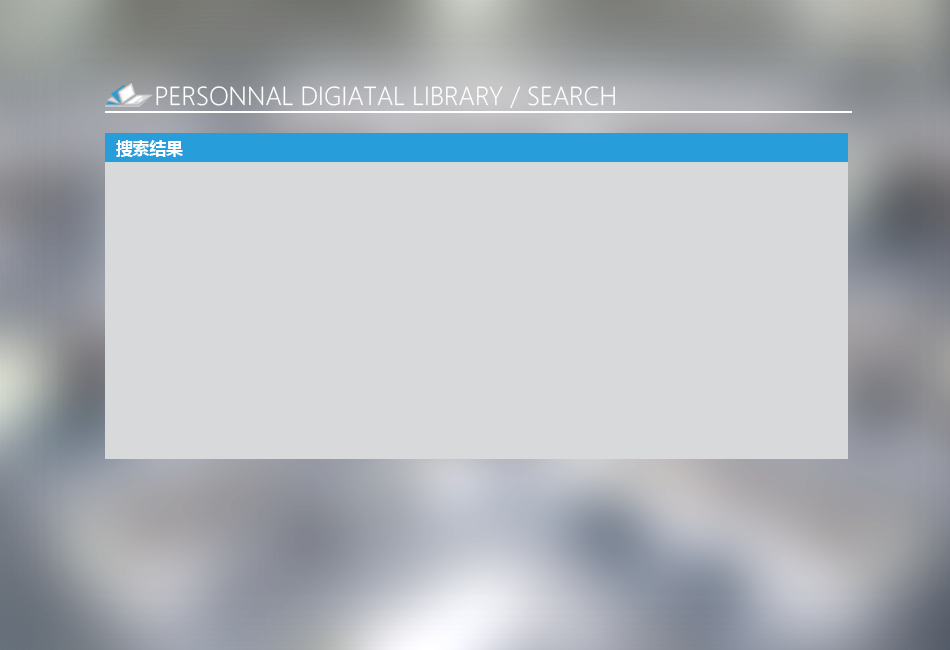
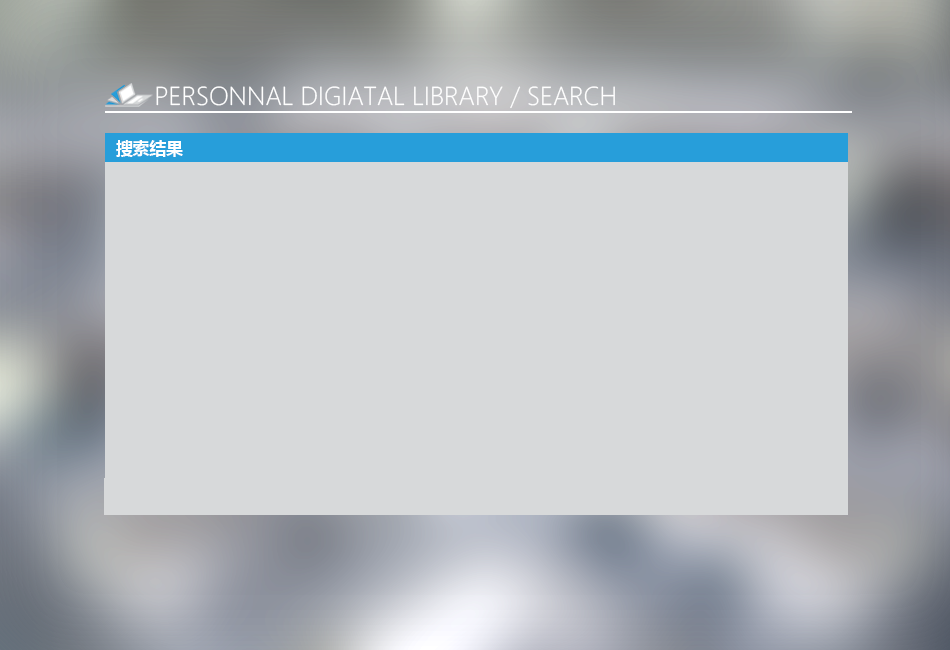
完善项目，新的布局，顺便debug，待更新

Changed region(s): [[0.0916, 0.7077, 0.9158, 0.8]]

diff --git a/src/gui/SetUp.java b/src/gui/SetUp.java
@@ -70,7 +70,7 @@ public class SetUp extends BasicPanel {
 
         styleJLabel = new JLabel("风格设置", JLabel.CENTER);
         styleJLabel.setFont(GLOBAL_FONT);
-        styleJLabel.setBounds(185, 180, 100, 50);
+        styleJLabel.setBounds(185, 230, 100, 50);
         this.add(styleJLabel);
 
         stylebButtonGroup = new ButtonGroup();
@@ -99,7 +99,7 @@ public class SetUp extends BasicPanel {
                 styleButtons[i] = new JRadioButton("Mac风格");
                 styleButtons[i].addActionListener(new RadioButtonListener(i, "com.sun.java.swing.plaf.mac.MacLookAndFeel", this));
             }
-            styleButtons[i].setBounds(300 + 130 * (i % 4), 180 + (i / 4) * 40, 130, 50);
+            styleButtons[i].setBounds(300 + 130 * (i % 4), 230 + (i / 4) * 40, 130, 50);
             styleButtons[i].setOpaque(false);
             styleButtons[i].setFont(GLOBAL_FONT);
             this.add(styleButtons[i]);
@@ -108,7 +108,7 @@ public class SetUp extends BasicPanel {
         //默认系统风格
         styleButtons[styleButtons.length - 1] = new JRadioButton("系统风格");
         styleButtons[styleButtons.length - 1].setBounds(300 + 130 * ((styleButtons.length - 1) % 4),
-                180 + (styleButtons.length - 1) / 4 * 40, 130, 50);
+                230 + (styleButtons.length - 1) / 4 * 40, 130, 50);
         styleButtons[styleButtons.length - 1].setOpaque(false);
         styleButtons[styleButtons.length - 1].setFont(GLOBAL_FONT);
         styleButtons[styleButtons.length - 1].addActionListener(new RadioButtonListener(styleButtons.length - 1,
@@ -119,15 +119,15 @@ public class SetUp extends BasicPanel {
 
         fontJLabel = new JLabel("字体设置", JLabel.CENTER);
         fontJLabel.setFont(GLOBAL_FONT);
-        fontJLabel.setBounds(185, 320, 100, 50);
+        fontJLabel.setBounds(185, 350, 100, 50);
         this.add(fontJLabel);
 
         globalButton = new JButton("普通字体设置");
         shelfButton = new JButton("书架字体设置");
         globalButton.setFont(GLOBAL_FONT);
         shelfButton.setFont(GLOBAL_FONT);
-        globalButton.setBounds(390, 330, 150, 30);
-        shelfButton.setBounds(560, 330, 150, 30);
+        globalButton.setBounds(390, 380, 150, 30);
+        shelfButton.setBounds(560, 380, 150, 30);
         globalButton.addActionListener((ActionEvent e) -> {
             z = new ZFontChooser("global", index);
             try {
@@ -149,7 +149,7 @@ public class SetUp extends BasicPanel {
 
         themeJLabel = new JLabel("主题设置", JLabel.CENTER);
         themeJLabel.setFont(styleJLabel.getFont());
-        themeJLabel.setBounds(185, 260, 100, 50);
+        themeJLabel.setBounds(185, 310, 100, 50);
         this.add(themeJLabel);
 
         themeButtonGroup = new ButtonGroup();
@@ -160,7 +160,7 @@ public class SetUp extends BasicPanel {
         themeButtons[(int) setMap.get("style").get("theme")].setSelected(true);
         //主题系列RadioButton
         for (int i = 0; i < themeButtons.length; i++) {
-            themeButtons[i].setBounds(300 + 130 * (i % 4), 260 + (i / 4) * 40, 130, 50);
+            themeButtons[i].setBounds(300 + 130 * (i % 4), 310 + (i / 4) * 40, 130, 50);
             themeButtons[i].setFont(GLOBAL_FONT);
             themeButtons[i].setOpaque(false);
             themeButtons[i].addActionListener(new ThemeListener(i, index));
@@ -169,11 +169,11 @@ public class SetUp extends BasicPanel {
         }
 
         startJLabel = new JLabel("启动设置", JLabel.CENTER);
-        startJLabel.setBounds(185, 380, 100, 30);
+        startJLabel.setBounds(185, 430, 100, 30);
         this.add(startJLabel);
         //让flag.pdl置为0
         reseButton = new JButton("重置初始搜索");
-        reseButton.setBounds(305, 380, 150, 30);
+        reseButton.setBounds(305, 430, 150, 30);
         reseButton.addActionListener((ActionEvent) -> {
             int answer = JOptionPane.showConfirmDialog(this, "重置初始搜索将会在下次启动时重新搜索您的计算机(如果您更改了大量文件，\n可能需要此功能)，这可能为花费较长时间，您确定要这么做吗？",
                     "警告", JOptionPane.YES_NO_OPTION);
@@ -187,7 +187,7 @@ public class SetUp extends BasicPanel {
         });
         this.add(reseButton);
         rangeButton = new JButton("搜索范围更改");
-        rangeButton.setBounds(475, 380, 150, 30);
+        rangeButton.setBounds(475, 430, 150, 30);
         rangeButton.addActionListener((ActionEvent) -> {
             //如何不让选C盘相关？
             File f;
@@ -213,7 +213,7 @@ public class SetUp extends BasicPanel {
         this.add(rangeButton);
         //重置至all
         resetRangeButton = new JButton("重置搜索范围");
-        resetRangeButton.setBounds(645, 380, 150, 30);
+        resetRangeButton.setBounds(645, 430, 150, 30);
         resetRangeButton.addActionListener((ActionEvent e) -> {
             int answer = JOptionPane.showConfirmDialog(this, "如此将重置初始搜索为全盘(除系统盘)搜索，\n确定要这样吗？", "提示", JOptionPane.OK_CANCEL_OPTION);
             if (answer == 0) {

diff --git a/src/gui/Search.java b/src/gui/Search.java
@@ -98,29 +98,29 @@ public class Search extends BasicPanel {
         entry3.setVisible(false);
         entry4.setVisible(false);
 
-        point1.setBounds(160, 173, 20, 20);
+        point1.setBounds(160, 223, 20, 20);
         point1.setOpaque(true);
         point1.setBackground(new Color(39, 158, 218));
-        point2.setBounds(160, 223, 20, 20);
+        point2.setBounds(160, 273, 20, 20);
         point2.setOpaque(true);
         point2.setBackground(new Color(39, 158, 218));
-        point3.setBounds(160, 273, 20, 20);
+        point3.setBounds(160, 323, 20, 20);
         point3.setOpaque(true);
         point3.setBackground(new Color(39, 158, 218));
-        point4.setBounds(160, 323, 20, 20);
+        point4.setBounds(160, 373, 20, 20);
         point4.setOpaque(true);
         point4.setBackground(new Color(39, 158, 218));
 
         bt1.setBounds(240, 393, 50, 22);
-        bt2.setBounds(340, 393, 50, 22);
-        option1.setBounds(220, 173, 200, 20);
-        option2.setBounds(220, 223, 200, 20);
-        option3.setBounds(220, 273, 200, 20);
-        option4.setBounds(220, 323, 200, 20);
-        entry1.setBounds(350, 173, 200, 20);
-        entry2.setBounds(350, 223, 200, 20);
-        entry3.setBounds(350, 273, 200, 20);
-        entry4.setBounds(350, 323, 200, 20);
+        bt2.setBounds(340, 433, 50, 22);
+        option1.setBounds(220, 223, 200, 20);
+        option2.setBounds(220, 273, 200, 20);
+        option3.setBounds(220, 323, 200, 20);
+        option4.setBounds(220, 373, 200, 20);
+        entry1.setBounds(350, 223, 200, 20);
+        entry2.setBounds(350, 273, 200, 20);
+        entry3.setBounds(350, 323, 200, 20);
+        entry4.setBounds(350, 373, 200, 20);
         this.addReturnListener();
     }
 
@@ -206,15 +206,15 @@ public class Search extends BasicPanel {
                 ArrayList<String> result = new ArrayList<>();
                 ResultPanel RESULT = null;
                 for (JTextField entry : new JTextField[]{entry1, entry2, entry3, entry4}) {
-                    if (entry.isVisible()) {
+                    if (entry.isVisible() && !"".equals(entry.getText())) {
                         if (entry == entry4) {
-                            SearchContent Re4 = new SearchContent(entry4.getText());
+                            SearchContent Re4 = new SearchContent(entry.getText());
                             result.addAll(Re4.result);
                         }
                         if (entry == entry3) {
-                            result.addAll(NewSearch.SearchTitle(entry3.getText()));
+                            result.addAll(NewSearch.SearchTitle(entry.getText()));
                         }
-                        RESULT = new ResultPanel(entry.getText(), result);
+                        RESULT = new ResultPanel(entry.getText(), result, "search");
                         break;
                     }
                 }
@@ -226,11 +226,16 @@ public class Search extends BasicPanel {
                         img.paintIcon(this, g, 0, 0);
                     }
                 };
+                //z到此一游
                 temp.returnButton.removeActionListener(temp.actionListener);
                 temp.returnButton.addActionListener((ActionListener) -> {
                     MainFrame.cl.show(MainFrame.changeJPanel, "search");
                 });
-                RESULT.setBounds(130, 165, 600, 275);
+                for (Component c : RESULT.getComponents()) {
+                    c.setForeground(SetUp.FORE_COLOR);
+                }
+                RESULT.setBounds(130, 165, 700, 325);
+                //z游览完毕
                 RESULT.setVisible(true);
                 temp.add(RESULT);
                 temp.setLayout(null);

diff --git a/src/gui/ResultPanel.java b/src/gui/ResultPanel.java
@@ -5,22 +5,20 @@ import javax.swing.*;
 import java.awt.event.*;
 import java.io.IOException;
 import java.util.ArrayList;
-import java.util.EventObject;
 import java.util.HashMap;
 import java.util.logging.Level;
 import java.util.logging.Logger;
-import gui.SetUp;
 
 public class ResultPanel extends JPanel {
 
     private HashMap<Integer, String> JLHashMap;
-    private JLabel[] labelListJLabels = new JLabel[5000];
+    JLabel[] labelListJLabels = new JLabel[5000];
     private JLabel labelHintJLabel = new JLabel();
     private JLabel[] labelorderJLabels = new JLabel[20];
     private JLabel next, front, tail, foreward;
     private ArrayList<JLabel> Page = new ArrayList<JLabel>();
     private int nowPage = 0;
-    private int pagelength = 8, length = 8;
+    private int pagelength = 10, length = 10;
     private int countpage = 0;
     private static int startwidth = 0, startheight = -30, width = 400, height = 30;
     private int now = 0;
@@ -37,7 +35,17 @@ public class ResultPanel extends JPanel {
         return this.name;
     }
 
-    public ResultPanel(String str, ArrayList<String> result) {
+    /**
+     * 元神请看这里！
+     *
+     * @param str
+     * @param result
+     * @param where 为了加长搜索结果的显示，所以加了个这个，where为"shelf"或者"search"
+     */
+    public ResultPanel(String str, ArrayList<String> result, String where) {
+        if (where.equals("search")) {
+            width += 200;
+        }
         JLabel temLabel;
         this.name = str;
         this.setBackground(SetUp.BACK_COLOR);
@@ -125,13 +133,13 @@ public class ResultPanel extends JPanel {
         nowPage = x;
         len = size >= (nowPage + length) ? length : size;
         for (i = 0; i < len; i++) {
-            Page.get(x + i).setBounds(startwidth + height * 3 + (height * i), 8 * height, height, height);
+            Page.get(x + i).setBounds(startwidth + height * 3 + (height * i), 10 * height, height, height);
             Page.get(x + i).setVisible(true);
         }
-        next.setBounds(startwidth + height * 3 + (height * len), 8 * height, height, height);
-        tail.setBounds(startwidth + height * 4 + (height * len), 8 * height, height, height);
-        front.setBounds(startwidth + height, 8 * height, height, height);
-        foreward.setBounds(startwidth + height * 2, 8 * height, height, height);
+        next.setBounds(startwidth + height * 3 + (height * len), 10 * height, height, height);
+        tail.setBounds(startwidth + height * 4 + (height * len), 10 * height, height, height);
+        front.setBounds(startwidth + height, 10 * height, height, height);
+        foreward.setBounds(startwidth + height * 2, 10 * height, height, height);
     }
 
     public void addMove() {

diff --git a/src/gui/ShelfPanel.java b/src/gui/ShelfPanel.java
@@ -69,6 +69,7 @@ public class ShelfPanel extends BasicPanel {
             }
             subjectLabel[i] = new JLabel(subjectShow[a + i].getName());
             subjectLabel[i].setFont(SetUp.GLOBAL_FONT);
+            subjectLabel[i].setForeground(Color.WHITE);  //可能要改
             subjectLabel[i].setBounds(270 + i * 58, 133, 55, 28);
             subjectLabel[i].addMouseListener(new CursorListener());
             subjectLabel[i].addMouseListener(new ChangePage(a + i));
@@ -88,13 +89,13 @@ public class ShelfPanel extends BasicPanel {
             str = br.readLine();
             boy = str.split("/");
             List<String> wordList = new ArrayList<>(Arrays.asList(boy[1].split(",")));
-            subjectShow[len] = new ResultPanel(boy[0], (ArrayList<String>) wordList);
+            subjectShow[len] = new ResultPanel(boy[0], (ArrayList<String>) wordList, "shelf");
             len++;
         }
     }
 
     private void setContent(int n) {
-        subjectShow[n].setBounds(130, 165, 500, 275);
+        subjectShow[n].setBounds(130, 165, 500, 325);
         subjectShow[n].setVisible(true);
         this.add(subjectShow[n]);
     }
